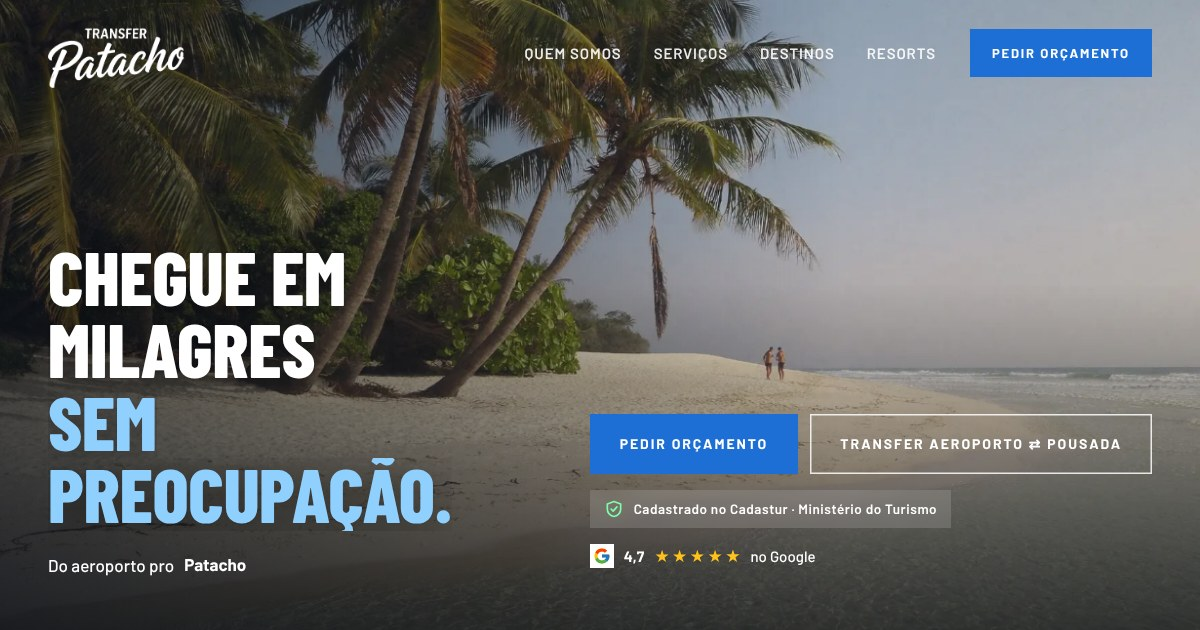
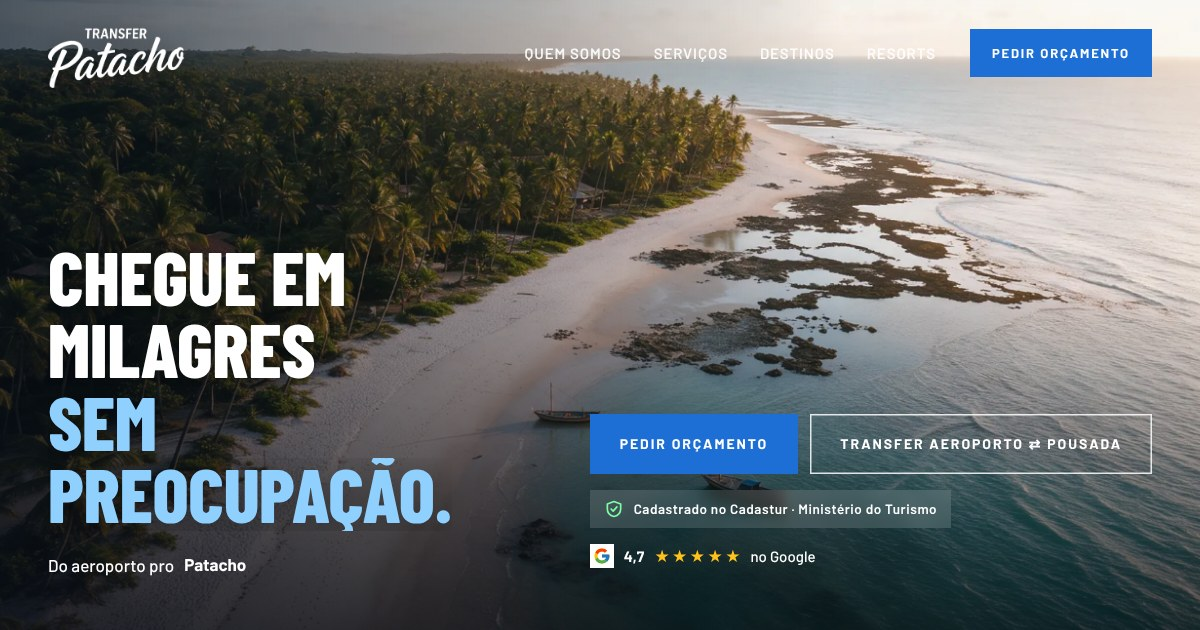
Prévia v4: capas aéreas sem pessoas, avaliações no fim, fita do Instagram contínua
Claude-Session: https://claude.ai/code/session_01C22FjvBUQqrK6Rtnr1V3yc

diff --git a/index.html b/index.html
@@ -410,8 +410,7 @@ footer .base{grid-column:1/-1;padding-top:22px;border-top:1px solid rgba(255,255
 .fita{position:relative;z-index:6;background:var(--papel);padding:clamp(80px,8vw,120px) 0;overflow:hidden}
 .fita .tit{margin-bottom:clamp(34px,4vw,54px)}
 .fita .tit a{color:var(--laranja);font-weight:700}
-.trilha{display:flex;gap:14px;width:max-content;animation:fita 60s linear infinite}
-.fita:hover .trilha{animation-play-state:paused}
+.trilha{display:flex;gap:14px;width:max-content;animation:fita 38s linear infinite}
 .trilha img{height:clamp(240px,24vw,360px);width:auto;aspect-ratio:4/5;object-fit:cover;flex:none}
 @keyframes fita{to{transform:translate3d(-50%,0,0)}}
 @media(prefers-reduced-motion:reduce){.trilha{animation:none}}
@@ -469,7 +468,7 @@ footer .base{grid-column:1/-1;padding-top:22px;border-top:1px solid rgba(255,255
 </header>
 
 <section class="hero" id="topo">
-  <picture><source media="(max-width:900px)" srcset="capa-v2-m.webp"><img decoding="async" class="bg kb" id="heroImg" fetchpriority="high" src="capa-v2.webp" alt="Coqueiros na Praia do Patacho de manhã cedo"></picture>
+  <picture><source media="(max-width:900px)" srcset="capa-v2-m.webp"><img decoding="async" class="bg kb" id="heroImg" fetchpriority="high" src="capa-v2.webp" alt="Vista aérea da Praia do Patacho com coqueiros e piscinas naturais"></picture>
   <div class="wrap">
     <div class="esq"><h1 class="split" id="heroTit">Chegue em Milagres <em>sem preocupação.</em></h1>
     <div class="bora h-fade">Do aeroporto pro <span class="slot" id="slot"><b>Patacho</b><b>Milagres</b><b>Japaratinga</b><b>Maragogi</b><b>sua pousada</b><b>Patacho</b></span></div></div>
@@ -553,16 +552,6 @@ footer .base{grid-column:1/-1;padding-top:22px;border-top:1px solid rgba(255,255
   </div>
 </section>
 
-<section class="aval" id="avaliacoes">
-  <div class="wrap">
-    <div class="aval-h">
-      <div><span class="k rv">Avaliações</span><h2 class="split">Quem foi, recomenda.</h2></div>
-      <div class="nota rv"><svg><use href="#g"/></svg><b>4,7</b><div><span class="est brilho"><i>★</i><i>★</i><i>★</i><i>★</i><i>★</i></span><small>12 avaliações no Google</small></div></div>
-    </div>
-    <div class="mural"><div class="dep rv"><div class="dep-top"><span class="est"><i>★</i><i>★</i><i>★</i><i>★</i><i>★</i></span><svg><use href="#g"/></svg></div><p>Viagem tranquila, segura, em carro extremamente confortável, motorista educado e gente boa demais! Já usei o Transfer Patacho de Recife a Milagres, de Natal a Milagres e também pra conhecer todos os pontos turísticos da região.</p><div class="quem-av"><span class="av" style="background:#1d6fd6">A</span><div><b>Ana Prado</b><small>Google</small></div></div></div><figure class="mfoto rv"><img loading="lazy" src="pt-jangada.webp" alt="Passeio de jangada nas piscinas naturais"><figcaption>Piscinas naturais</figcaption></figure><div class="dep rv"><div class="dep-top"><span class="est"><i>★</i><i>★</i><i>★</i><i>★</i><i>★</i></span><svg><use href="#g"/></svg></div><p>Excelente. O Beto é muito gentil, educado e atencioso. Sempre tivemos um excelente atendimento por ele e pelo Bruno.</p><div class="quem-av"><span class="av" style="background:#c8202a">M</span><div><b>Miriam Guimarães</b><small>Google</small></div></div></div><div class="dep rv"><div class="dep-top"><span class="est"><i>★</i><i>★</i><i>★</i><i>★</i><i>★</i></span><svg><use href="#g"/></svg></div><p>Melhor transfer da região. 100% seguro, responsável e amigável! Serviço maravilhoso! Recomendo muito!</p><div class="quem-av"><span class="av" style="background:#16171b">D</span><div><b>Daniela Justus</b><small>Google</small></div></div></div><figure class="mfoto rv"><img loading="lazy" src="pt-farol.webp" alt="Clientes no farol da região"><figcaption>Passeio pela região</figcaption></figure><div class="dep rv"><div class="dep-top"><span class="est"><i>★</i><i>★</i><i>★</i><i>★</i><i>★</i></span><svg><use href="#g"/></svg></div><p>Serviço 5 estrelas. Todo o cuidado, trato e disponibilidade muito bom.</p><div class="quem-av"><span class="av" style="background:#1d6fd6">S</span><div><b>Sérgio Peixoto</b><small>Google</small></div></div></div><div class="dep rv"><div class="dep-top"><span class="est"><i>★</i><i>★</i><i>★</i><i>★</i><i>★</i></span><svg><use href="#g"/></svg></div><p>Segurança e tranquilidade!! Experiência que você precisa viver!</p><div class="quem-av"><span class="av" style="background:#c8202a">C</span><div><b>Crislane Silva</b><small>Google</small></div></div></div></div>
-  </div>
-</section>
-
 <section class="res" id="reservar">
   <img loading="lazy" decoding="async" class="res-img" src="d-milagres.webp" alt="">
   <div class="wrap">
@@ -596,6 +585,16 @@ footer .base{grid-column:1/-1;padding-top:22px;border-top:1px solid rgba(255,255
   <div class="wrap"><div class="tit"><span class="k rv">Quem já chegou com a gente</span><h2 class="split">Gente chegando <em>feliz.</em></h2><p class="rv">Fotos dos nossos clientes no <a href="https://www.instagram.com/transferpatacho/" target="_blank" rel="noopener">@transferpatacho</a>.</p></div></div>
   <div class="trilha" aria-hidden="true"><img loading="lazy" decoding="async" src="pt-f1.webp" alt="Clientes da Transfer Patacho"><img loading="lazy" decoding="async" src="pt-f2.webp" alt="Clientes da Transfer Patacho"><img loading="lazy" decoding="async" src="pt-f3.webp" alt="Clientes da Transfer Patacho"><img loading="lazy" decoding="async" src="pt-f4.webp" alt="Clientes da Transfer Patacho"><img loading="lazy" decoding="async" src="pt-f5.webp" alt="Clientes da Transfer Patacho"><img loading="lazy" decoding="async" src="pt-f6.webp" alt="Clientes da Transfer Patacho"><img loading="lazy" decoding="async" src="pt-f7.webp" alt="Clientes da Transfer Patacho"><img loading="lazy" decoding="async" src="pt-f8.webp" alt="Clientes da Transfer Patacho"><img loading="lazy" decoding="async" src="pt-f1.webp" alt="Clientes da Transfer Patacho"><img loading="lazy" decoding="async" src="pt-f2.webp" alt="Clientes da Transfer Patacho"><img loading="lazy" decoding="async" src="pt-f3.webp" alt="Clientes da Transfer Patacho"><img loading="lazy" decoding="async" src="pt-f4.webp" alt="Clientes da Transfer Patacho"><img loading="lazy" decoding="async" src="pt-f5.webp" alt="Clientes da Transfer Patacho"><img loading="lazy" decoding="async" src="pt-f6.webp" alt="Clientes da Transfer Patacho"><img loading="lazy" decoding="async" src="pt-f7.webp" alt="Clientes da Transfer Patacho"><img loading="lazy" decoding="async" src="pt-f8.webp" alt="Clientes da Transfer Patacho"></div>
   <div class="fita-b"><a class="btn" href="https://www.instagram.com/transferpatacho/" target="_blank" rel="noopener"><svg viewBox="0 0 24 24" fill="none" stroke="currentColor" stroke-width="2"><rect x="3" y="3" width="18" height="18" rx="5"/><circle cx="12" cy="12" r="4"/><circle cx="17.5" cy="6.5" r="1" fill="currentColor"/></svg>Seguir no Instagram</a></div>
+</section>
+
+<section class="aval" id="avaliacoes">
+  <div class="wrap">
+    <div class="aval-h">
+      <div><span class="k rv">Avaliações</span><h2 class="split">Quem foi, recomenda.</h2></div>
+      <div class="nota rv"><svg><use href="#g"/></svg><b>4,7</b><div><span class="est brilho"><i>★</i><i>★</i><i>★</i><i>★</i><i>★</i></span><small>12 avaliações no Google</small></div></div>
+    </div>
+    <div class="mural"><div class="dep rv"><div class="dep-top"><span class="est"><i>★</i><i>★</i><i>★</i><i>★</i><i>★</i></span><svg><use href="#g"/></svg></div><p>Viagem tranquila, segura, em carro extremamente confortável, motorista educado e gente boa demais! Já usei o Transfer Patacho de Recife a Milagres, de Natal a Milagres e também pra conhecer todos os pontos turísticos da região.</p><div class="quem-av"><span class="av" style="background:#1d6fd6">A</span><div><b>Ana Prado</b><small>Google</small></div></div></div><figure class="mfoto rv"><img loading="lazy" src="pt-jangada.webp" alt="Passeio de jangada nas piscinas naturais"><figcaption>Piscinas naturais</figcaption></figure><div class="dep rv"><div class="dep-top"><span class="est"><i>★</i><i>★</i><i>★</i><i>★</i><i>★</i></span><svg><use href="#g"/></svg></div><p>Excelente. O Beto é muito gentil, educado e atencioso. Sempre tivemos um excelente atendimento por ele e pelo Bruno.</p><div class="quem-av"><span class="av" style="background:#c8202a">M</span><div><b>Miriam Guimarães</b><small>Google</small></div></div></div><div class="dep rv"><div class="dep-top"><span class="est"><i>★</i><i>★</i><i>★</i><i>★</i><i>★</i></span><svg><use href="#g"/></svg></div><p>Melhor transfer da região. 100% seguro, responsável e amigável! Serviço maravilhoso! Recomendo muito!</p><div class="quem-av"><span class="av" style="background:#16171b">D</span><div><b>Daniela Justus</b><small>Google</small></div></div></div><figure class="mfoto rv"><img loading="lazy" src="pt-farol.webp" alt="Clientes no farol da região"><figcaption>Passeio pela região</figcaption></figure><div class="dep rv"><div class="dep-top"><span class="est"><i>★</i><i>★</i><i>★</i><i>★</i><i>★</i></span><svg><use href="#g"/></svg></div><p>Serviço 5 estrelas. Todo o cuidado, trato e disponibilidade muito bom.</p><div class="quem-av"><span class="av" style="background:#1d6fd6">S</span><div><b>Sérgio Peixoto</b><small>Google</small></div></div></div><div class="dep rv"><div class="dep-top"><span class="est"><i>★</i><i>★</i><i>★</i><i>★</i><i>★</i></span><svg><use href="#g"/></svg></div><p>Segurança e tranquilidade!! Experiência que você precisa viver!</p><div class="quem-av"><span class="av" style="background:#c8202a">C</span><div><b>Crislane Silva</b><small>Google</small></div></div></div></div>
+  </div>
 </section>
 
 <section class="loc" id="local">
